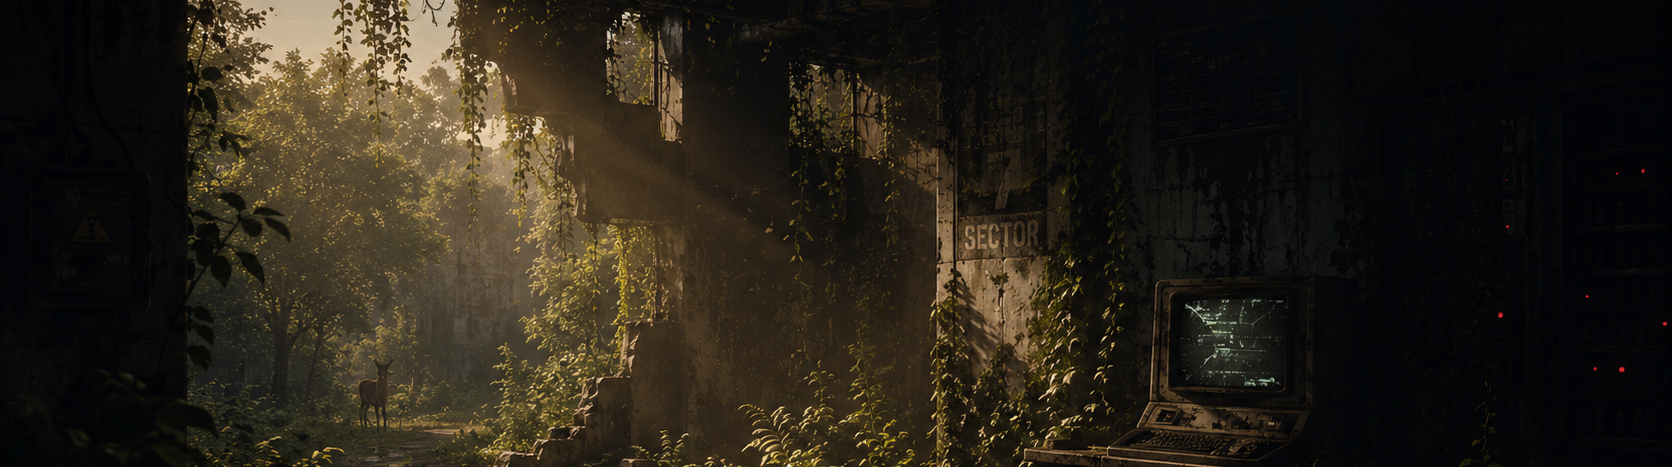
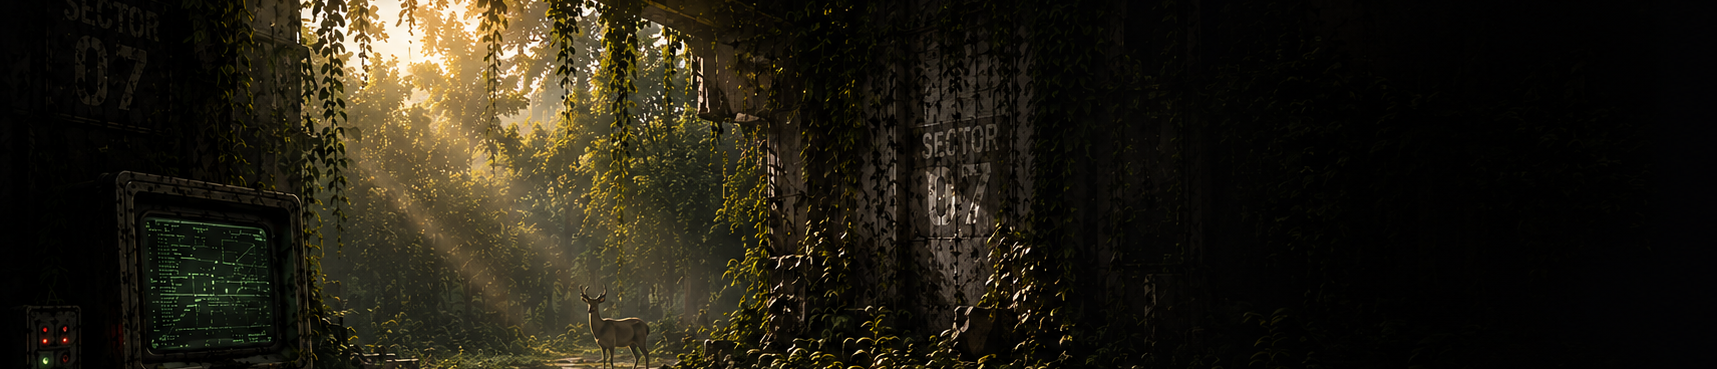
ARCHIVE-EXE-v0.9.27-new-hero

diff --git a/styles.css b/styles.css
@@ -1233,3 +1233,82 @@ main{max-width:1540px;margin:auto;padding:0 26px 70px}
     display:none!important;
   }
 }
+
+
+/* =========================================================
+   v0.9.27 — NEW HERO / COMPACT HEIGHT
+   ========================================================= */
+
+.hero{
+  height:clamp(300px,18vw,350px)!important;
+  background:#0a0d0a!important;
+}
+
+/* Use the new image directly, without dimming or stretching it. */
+.hero-art{
+  inset:0!important;
+  background-image:url('assets/header.png')!important;
+  background-size:cover!important;
+  background-position:center center!important;
+  filter:none!important;
+  transform:none!important;
+  animation:none!important;
+}
+
+/* Right side only: enough darkness for ARCHIVE.EXE, but not a hard split. */
+.hero-dark{
+  background:
+    linear-gradient(90deg,
+      transparent 0%,
+      transparent 58%,
+      rgba(7,10,7,.05) 66%,
+      rgba(7,10,7,.24) 78%,
+      rgba(7,10,7,.52) 100%)!important;
+}
+
+/* Make the hero melt into the site instead of ending like a separate poster. */
+.hero-fade{
+  background:
+    linear-gradient(180deg,
+      transparent 0%,
+      transparent 63%,
+      rgba(9,12,9,.06) 76%,
+      rgba(9,12,9,.23) 88%,
+      rgba(9,12,9,.72) 100%)!important;
+}
+
+/* Position the title a touch lower so it sits naturally in the dark side. */
+.hero-copy{
+  top:50%!important;
+  transform:translateY(-48%)!important;
+}
+
+/* Dust stays visible but subtle. */
+.hero-dust-field{
+  opacity:.78!important;
+}
+
+/* Terminal is already on the LEFT in the artwork. Remove old right-side pulse. */
+.hero-terminal-wake{
+  left:8.2%!important;
+  top:42%!important;
+  width:10.8%!important;
+  height:28%!important;
+}
+
+/* Desktop keeps the full scene readable. */
+@media(min-width:1021px){
+  .hero-art{
+    background-position:center center!important;
+  }
+}
+
+/* Mobile: keep the header compact. */
+@media(max-width:760px){
+  .hero{
+    height:280px!important;
+  }
+  .hero-art{
+    background-position:34% center!important;
+  }
+}

diff --git a/README.md b/README.md
@@ -1,10 +1,9 @@
-# ARCHIVE.EXE v0.9.26 — Source-Faithful Hero
+# ARCHIVE.EXE v0.9.27 — New Hero
 
-- Rebased on v0.9.21 to remove all accumulated hero animation/cropping hacks.
-- Uses the original generated artwork with only a vertical crop to banner ratio.
-- No brightness filter, blur, recoloring, reconstructed background, or animated zoom.
-- Only a local right-side gradient sits behind ARCHIVE.EXE.
-- Bottom fade is very light.
-- Dust is a separate overlay of independently falling particles.
-- Terminal animation is only a subtle random glow over the terminal already present in the artwork.
-- Catalog, filters, toolbar, boot fixes and anomaly/easter-egg logic remain from the stable pre-hero build.
+- Replaced the header artwork with the new post-apocalyptic image.
+- Terminal is on the left in the image itself.
+- Hero height reduced to ~300–350px on desktop so it does not dominate the page.
+- No blur, brightness filter, recolor or animated zoom on the image.
+- Added a softer right-side dark zone for ARCHIVE.EXE text.
+- Added a stronger bottom fade so the image visually dissolves into the site.
+- Existing dust and random terminal wake overlays remain subtle.
